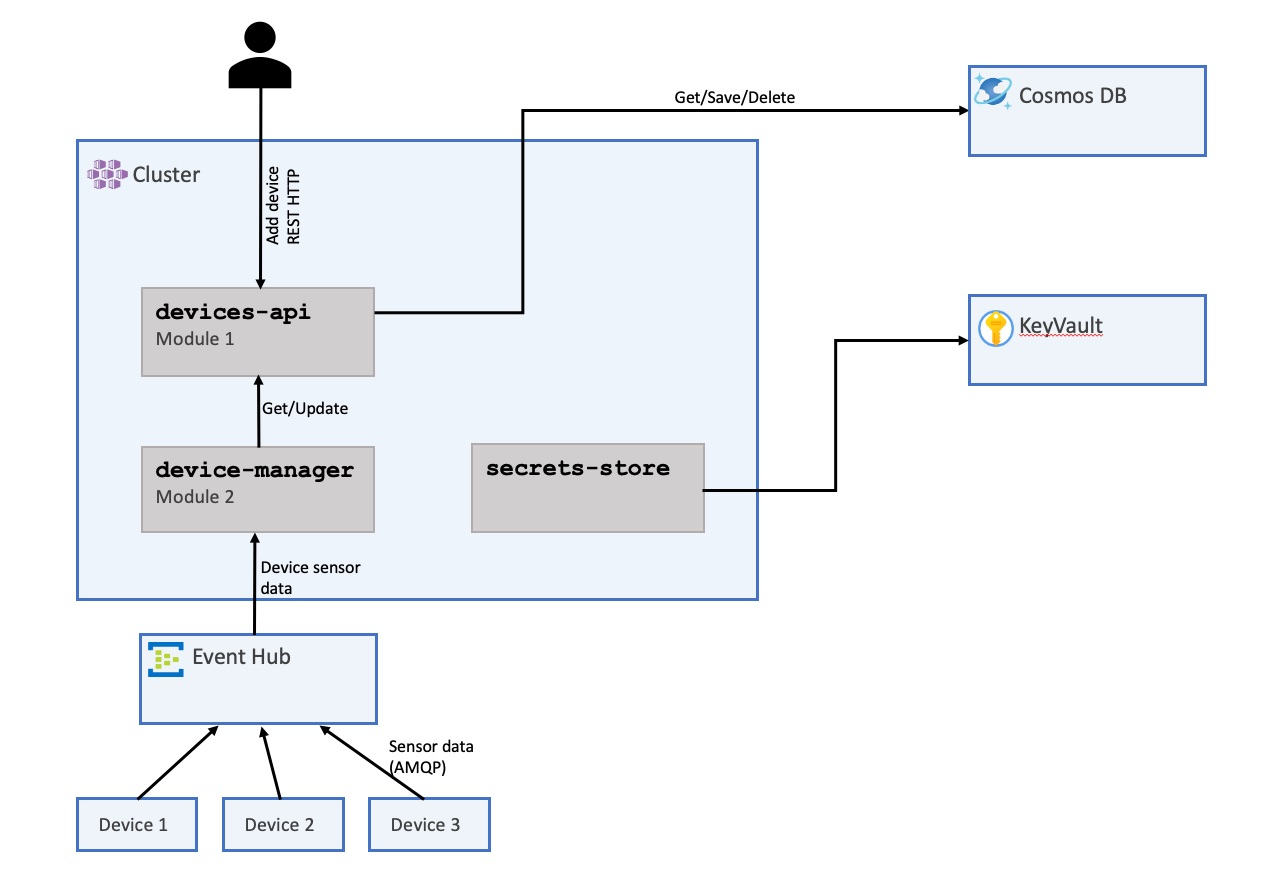
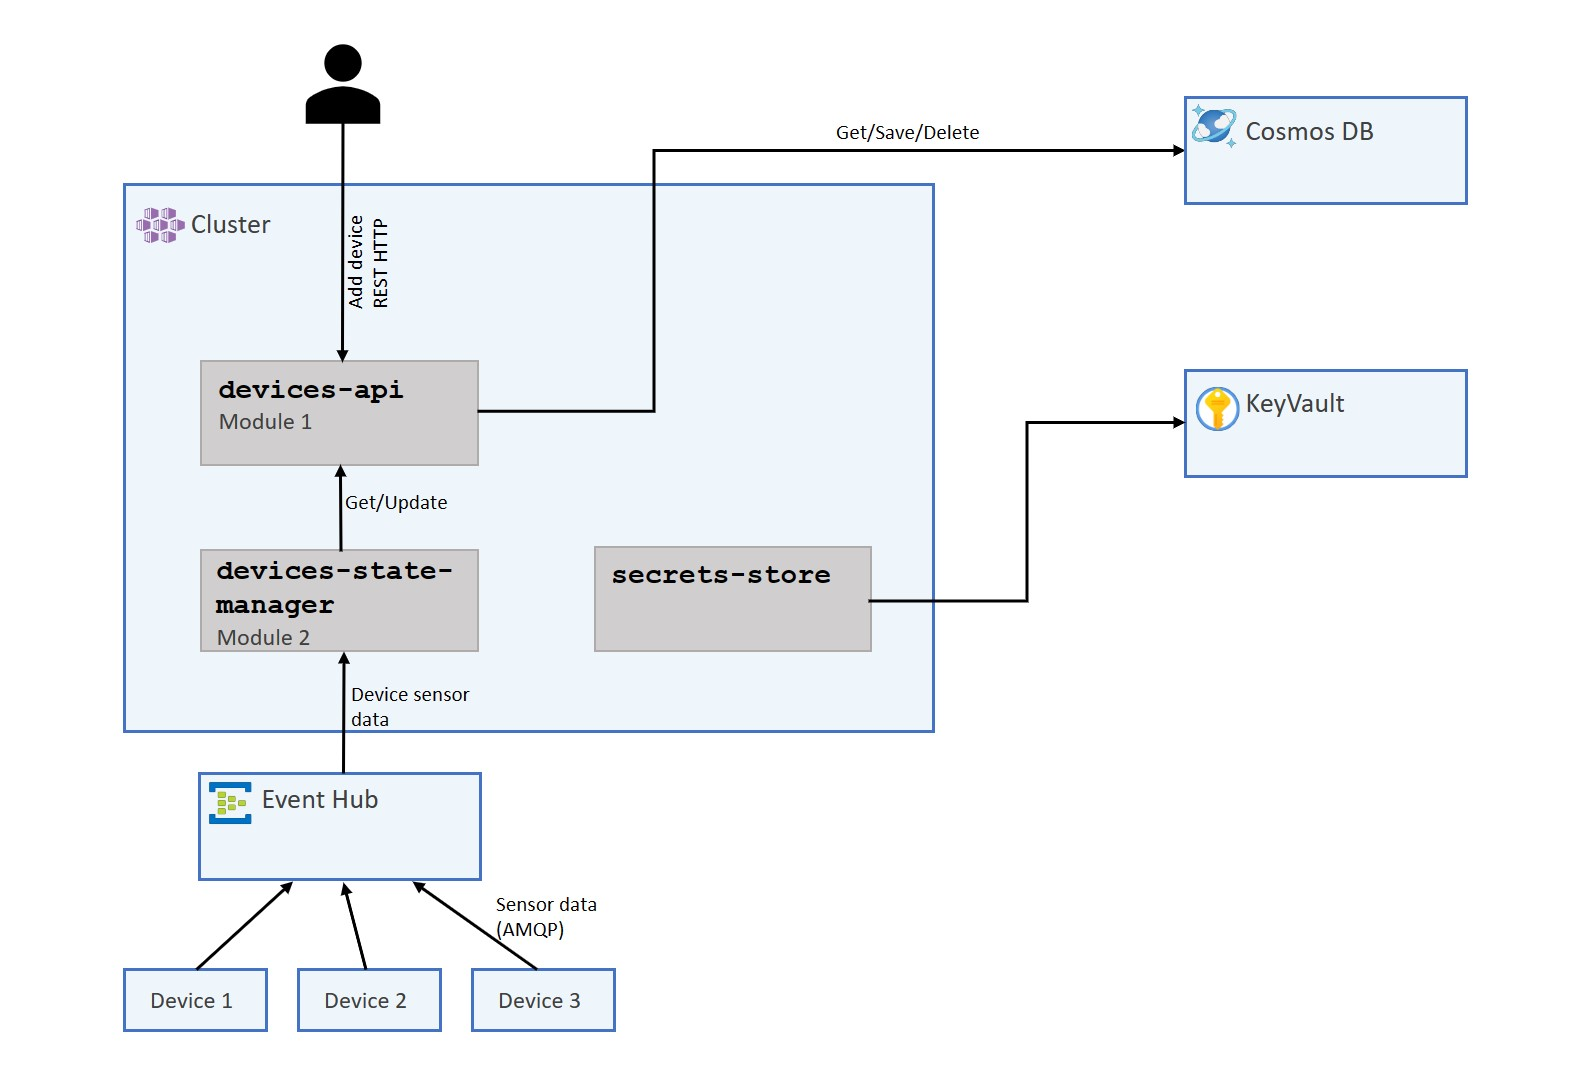
update resources diagram (#27)

Changed region(s): [[0.0624, 0.0307, 0.936, 0.9829], [0.6552, 0.3072, 0.9672, 0.4608], [0.3432, 0.3993, 0.6552, 0.6143]]

diff --git a/02-deploy-application/README.md b/02-deploy-application/README.md
@@ -371,6 +371,12 @@ spec:
 
 </details>
 
+### 🏗  Architecture
+
+Below, you'll find a diagram showing our solution with all components we just deployed.
+
+![Architecture](./images/solution-resources.jpg)
+
 ## 📦 Out of the box observability
 
 Let’s embark on a journey of discovery and see what Azure AKS has to offer right out of the box! Head over to the Azure Portal and navigate to your AKS cluster. Try to find out:
